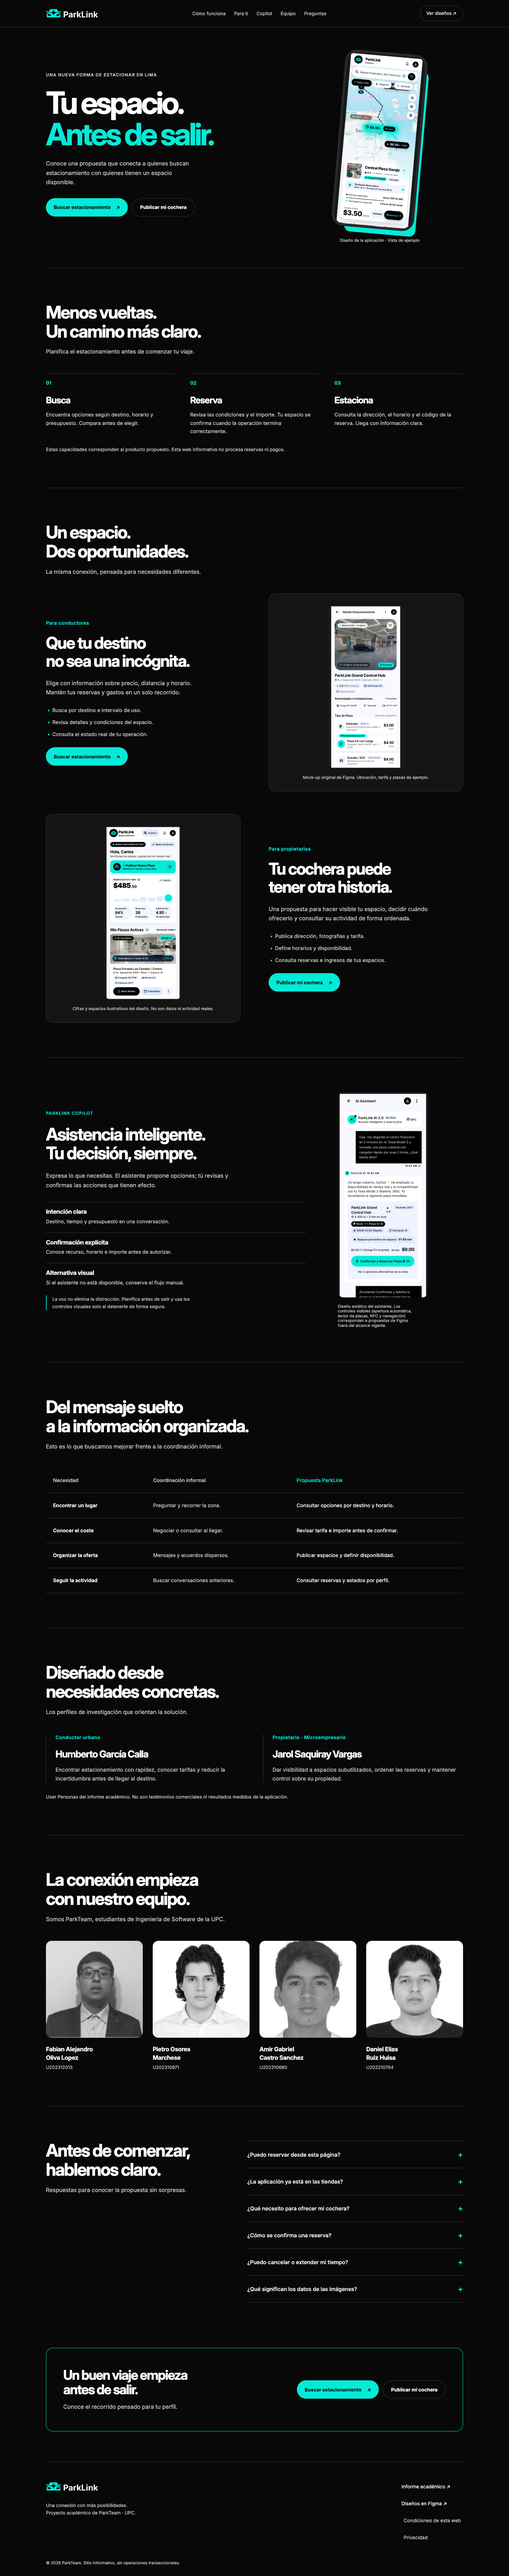
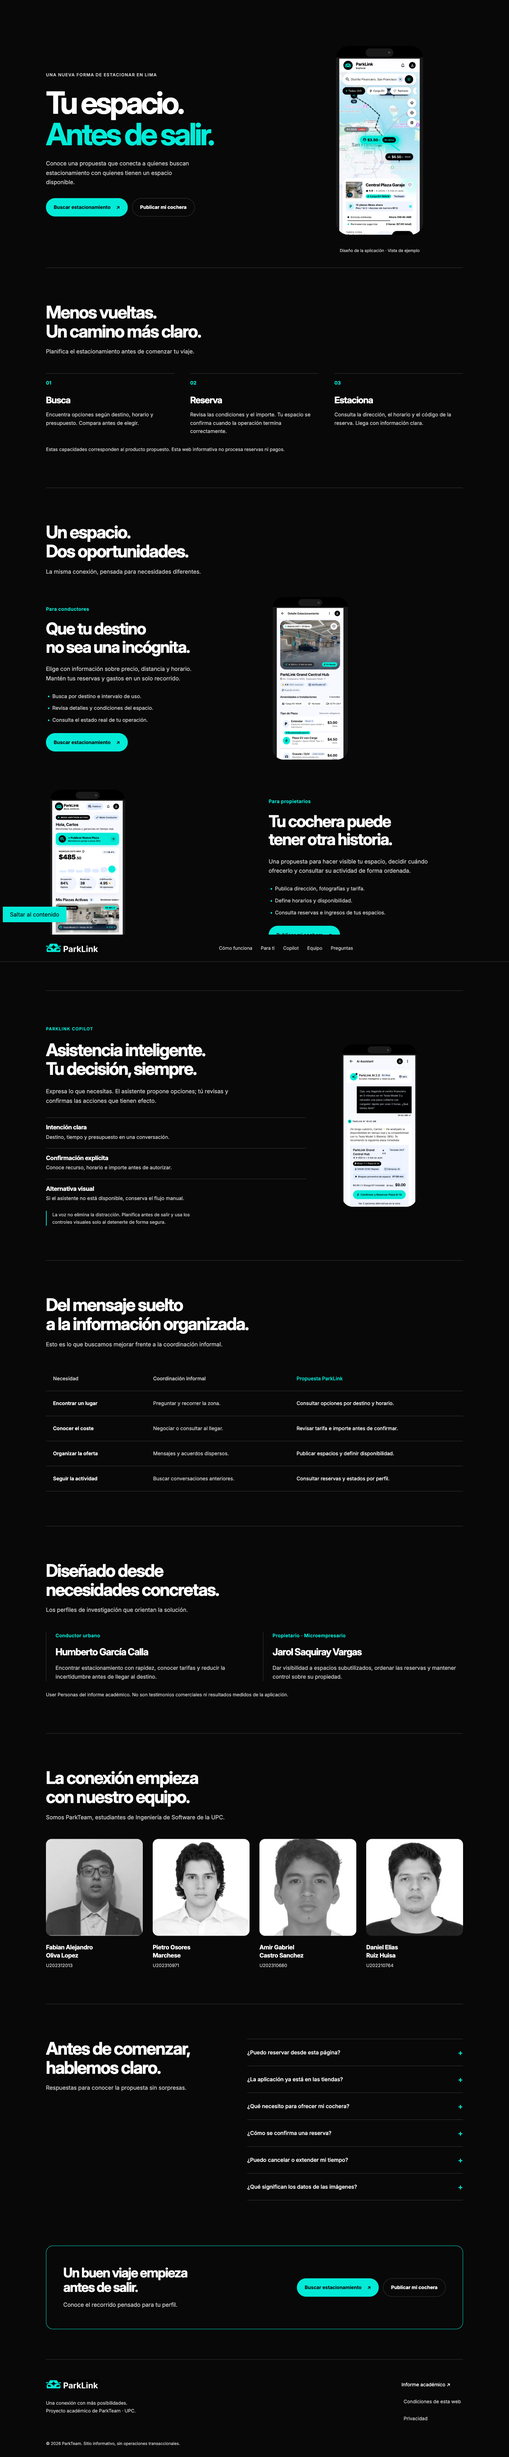
docs(report): refresh landing evidence with iPhone-framed mockups
Screenshots in 6.3.2 recaptured from production after two changes to
the deployed landing.

- The public site no longer exposes links to internal design tooling.
  The header "Ver diseños" button, the footer Figma link and the
  dialog's Figma button are gone, and the dialog copy no longer points
  at Figma. The scope disclaimers stay where they belong: in the
  figure captions, which still declare the mock-up figures as sample
  data and the IoT/LPR/NFC controls as out-of-scope proposals.
- All four mobile views are now presented inside an iPhone frame. The
  magicui/iphone geometry is ported to vanilla SVG: 433x882 body,
  389.5x843.5 screen at 21.25/19.25 with a 55.75 radius, side buttons
  and a dynamic island punched out with an SVG mask, dark variant.
  Screen captures use object-fit cover from the top so the app header,
  search bar and price card stay visible.

Also fixed a CSP violation the change introduced: the hidden SVG defs
block used an inline style attribute, which `style-src 'self'` blocked.
Moved to a class in the external stylesheet; the page now logs zero
console errors on production.

Manifest rehashed: 27 assets changed dimensions or bytes. Verified 53
entries with 0 problems, 110 README refs with 0 missing, 0 placeholders.

diff --git a/README.md b/README.md
@@ -3386,6 +3386,8 @@ Frame completo y exportaciones por sección, sin modificar:
 
 El mock-up manual aplicará fondo/superficies **#080808**, texto **#FFFFFF** y énfasis **#02EBD8**, con CTA turquesa de texto negro. Inter Bold jerarquizará títulos y acciones; los párrafos mantendrán Regular/Medium. La marca se mostrará sin reinterpretaciones arbitrarias, y los tokens de spacing/radio serán consistentes con las aplicaciones.
 
+**Presentación de las pantallas de la aplicación.** Las cuatro vistas móviles del sitio se presentan dentro de un marco de teléfono con la geometría del iPhone: cuerpo 433 × 882, pantalla de 389,5 × 843,5 px con radio de 55,75 px e isla dinámica recortada por máscara. La captura se recorta por la parte superior para conservar la cabecera de la aplicación, el buscador y la tarjeta de precio. Este marco es un recurso de presentación del sitio, no una captura del dispositivo ni una afirmación sobre el hardware objetivo.
+
 La arquitectura de información determinará qué se destaca: beneficios, secuencia de uso y acciones por rol; el color no sustituye a las etiquetas. El contraste calculado se comprobará nuevamente sobre imágenes y overlays reales. Se evitarán capturas inventadas, testimonios inexistentes y sellos de seguridad sin respaldo. Si se añade una fotografía o visual del producto, se identificará su origen y estado, no se presentará una propuesta como pantalla ya desplegada.
 
 El diseño inclusivo exige estructura semántica, textos alternativos, foco visible, lectura con ampliación y acciones operables sin hover. No se incorporan animaciones indispensables para entender cómo reservar, ni audio automático. El mock-up no es un ejercicio teórico: la Landing Page descrita está construida y desplegada en [https://parklink-tp1-landing.vercel.app](https://parklink-tp1-landing.vercel.app), con sus capturas de escritorio y móvil verificables.
